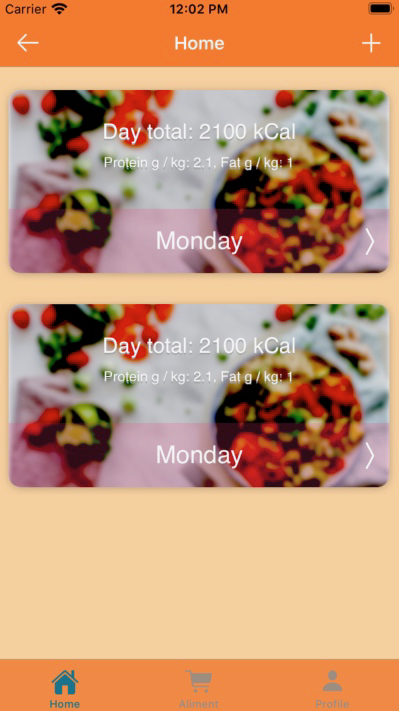
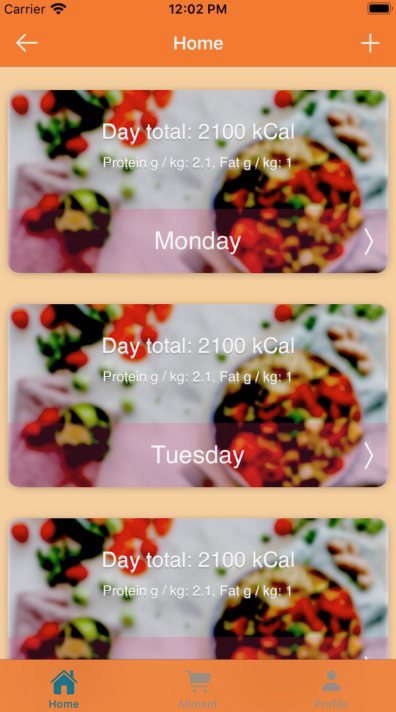
Realm library integrated Data model classes added for day and meal IBAction added for "Add day" navigation bar button Meal view controller updated Screenshot updated

diff --git a/FeedMe/Controllers/DayViewController.swift b/FeedMe/Controllers/DayViewController.swift
@@ -13,6 +13,10 @@ class DayViewController: UIViewController {
 
     @IBOutlet weak var tableView: UITableView!
     
+    let realm = try! Realm()
+    
+    var dayArray : Results<Day>?
+    
     override func viewDidLoad() {
         super.viewDidLoad()
                 
@@ -21,6 +25,54 @@ class DayViewController: UIViewController {
         tableView.delegate = self
         
         tableView.register(UINib(nibName: K.cellNibName, bundle: nil), forCellReuseIdentifier: K.cellIdentifier)
+        
+        loadDays()
+    }
+    
+    //MARK: - Data Manipulation Methods
+    func save(day: Day) {
+                    
+        do {
+            try realm.write {
+                realm.add(day)
+            }
+        } catch {
+            print("Error saving context \(error)")
+        }
+        
+        tableView.reloadData()
+    }
+        
+    func loadDays() {
+
+        dayArray = realm.objects(Day.self)
+           
+        tableView.reloadData()
+        
+    }
+        
+    @IBAction func addDayPressed(_ sender: UIBarButtonItem) {
+        
+        var textField = UITextField()
+        
+        let alert = UIAlertController(title: "Add New Day", message:"", preferredStyle: .alert)
+        
+        let action = UIAlertAction(title: "Add", style: .default) { (action) in
+                        
+            let newDay = Day()
+            newDay.name = textField.text!
+            
+            self.save(day: newDay)
+        }
+        
+        alert.addTextField { (alertTextField) in
+            textField.placeholder = "Create new day"
+            textField = alertTextField
+        }
+        
+        alert.addAction(action)
+        
+        present(alert, animated: true, completion: nil)
         
     }
 }
@@ -31,12 +83,17 @@ class DayViewController: UIViewController {
 extension DayViewController: UITableViewDataSource {
 
     func tableView(_ tableView: UITableView, numberOfRowsInSection section: Int) -> Int {
-        return 2
+//        return 2
+        return dayArray?.count ?? 1
     }
     
     func tableView(_ tableView: UITableView, cellForRowAt indexPath: IndexPath) -> UITableViewCell {
         
         let cell = tableView.dequeueReusableCell(withIdentifier: K.cellIdentifier, for: indexPath) as! DayCell
+        
+        if let day = dayArray?[indexPath.row] {
+            cell.dayNameLabel.text = day.name
+        }
   
         return cell
     }
@@ -47,21 +104,20 @@ extension DayViewController: UITableViewDataSource {
 extension DayViewController: UITableViewDelegate {
     
     func tableView(_ tableView: UITableView, didSelectRowAt indexPath: IndexPath) {
-                
-        tableView.deselectRow(at: indexPath, animated: true)
         
         performSegue(withIdentifier: "goToDayMeals", sender: self)
     }
     
     override func prepare(for segue: UIStoryboardSegue, sender: Any?) {
         
-//        let destinationVC = segue.destination as! MealViewController
-        
-//        if let indexPath = tableView.indexPathForSelectedRow {
-//            destinationVC.selectedCategory = categoryArray?[indexPath.row]
-//        }
+        let destinationVC = segue.destination as! MealViewController
+                
+        if let indexPath = tableView.indexPathForSelectedRow {
+            
+            tableView.deselectRow(at: indexPath, animated: true)
+            
+            destinationVC.selectedDay = dayArray?[indexPath.row]
+        }
     }
-    
+        
 }
-
-

diff --git a/FeedMe/Controllers/MealViewController.swift b/FeedMe/Controllers/MealViewController.swift
@@ -8,12 +8,34 @@
 
 import UIKit
 
-class MealViewController: UIViewController {
+class MealViewController: UITableViewController {
 
+    var selectedDay : Day?
+    
     override func viewDidLoad() {
         super.viewDidLoad()
 
         // Do any additional setup after loading the view.
     }
     
+    override func viewWillAppear(_ animated: Bool) {
+        
+        title = selectedDay!.name
+        
+    }
+
+    //MARK: - Tableview Datasource Methods
+    // Return the number of rows for the table.
+    override func tableView(_ tableView: UITableView, numberOfRowsInSection section: Int) -> Int {
+        return 1
+    }
+
+    override func tableView(_ tableView: UITableView, cellForRowAt indexPath: IndexPath) -> UITableViewCell {
+        
+        let cell = tableView.dequeueReusableCell(withIdentifier: "Cell", for: indexPath) 
+                                
+        return cell
+    }
+    
 }
+

diff --git a/FeedMe/Data Model/Meal.swift b/FeedMe/Data Model/Meal.swift
@@ -1,0 +1,16 @@
+//
+//  Meal.swift
+//  FeedMe
+//
+//  Created by Mathieu Delehaye on 20/07/2020.
+//  Copyright © 2020 Mathieu Delehaye. All rights reserved.
+//
+
+import Foundation
+import RealmSwift
+
+class Meal: Object {
+    @objc dynamic var name: String = ""
+//    @objc dynamic var dateCreated: Date?
+    var parentCategory = LinkingObjects(fromType: Day.self, property: "meals")
+}

diff --git a/FeedMe/Data Model/Day.swift b/FeedMe/Data Model/Day.swift
@@ -1,0 +1,15 @@
+//
+//  Day.swift
+//  FeedMe
+//
+//  Created by Mathieu Delehaye on 20/07/2020.
+//  Copyright © 2020 Mathieu Delehaye. All rights reserved.
+//
+
+import Foundation
+import RealmSwift
+
+class Day: Object {
+    @objc dynamic var name: String = ""
+    let meals = List<Meal>()
+}
